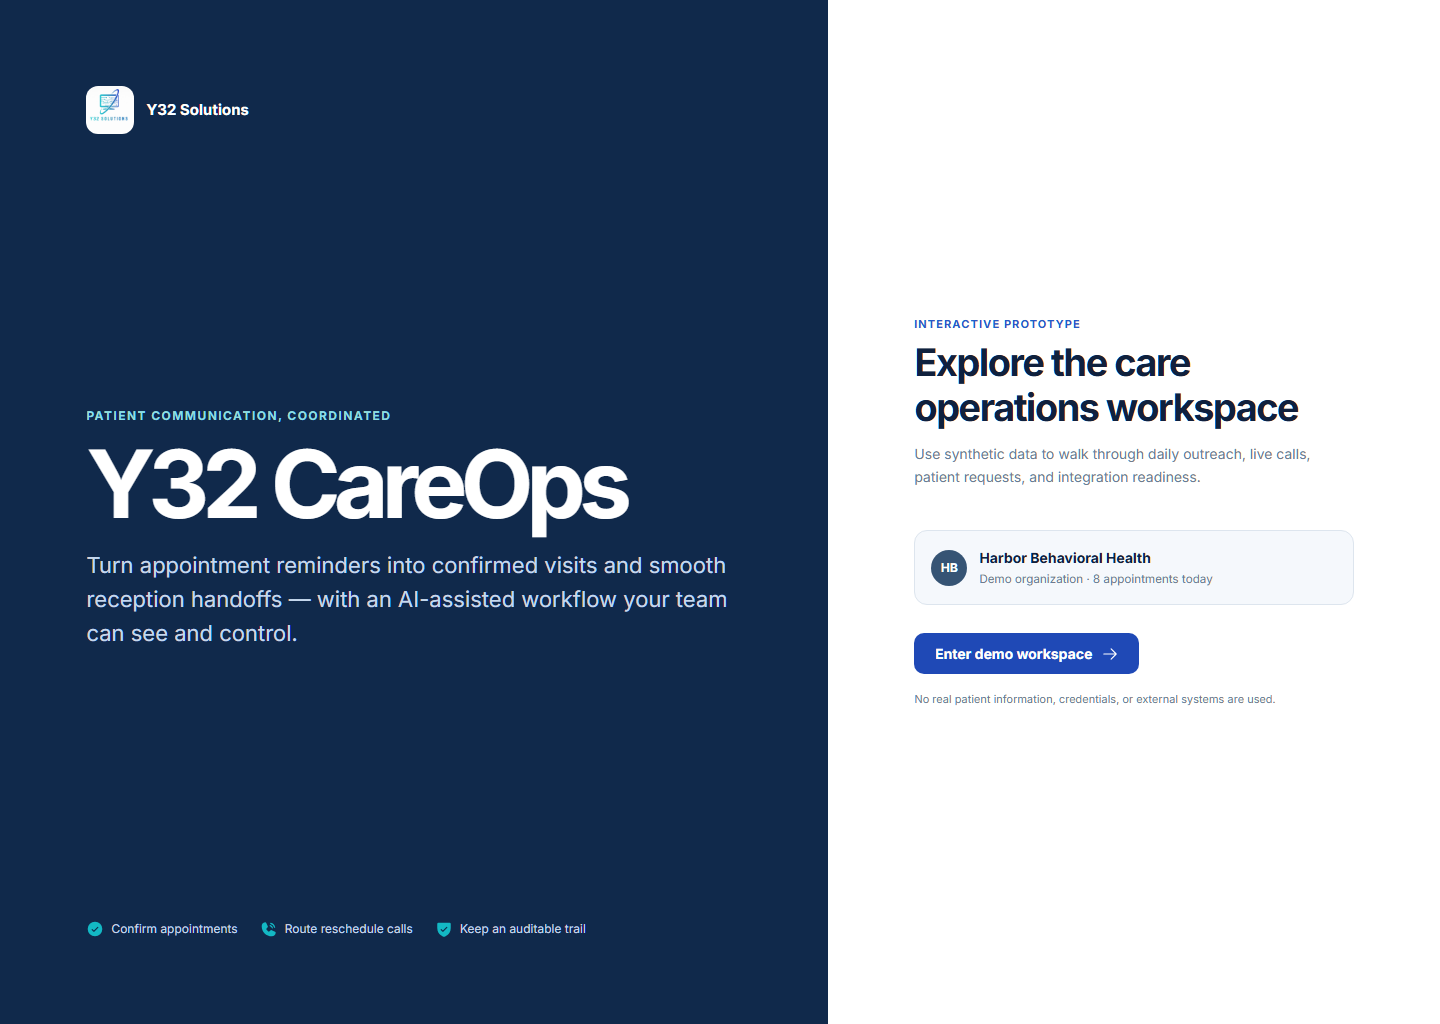
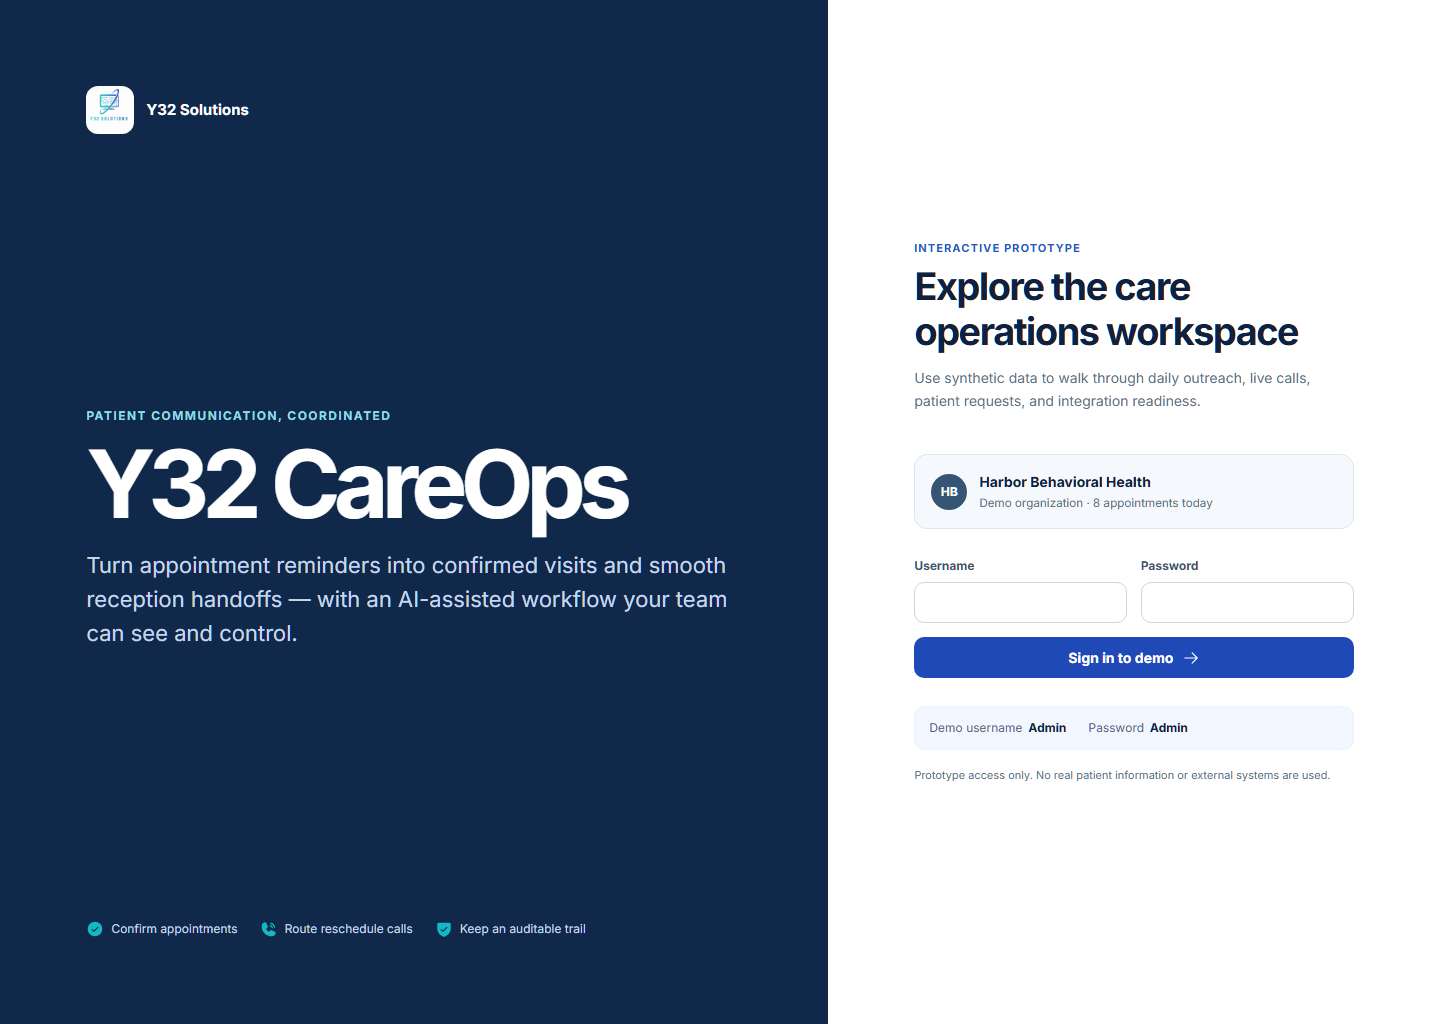
feat: add demo login credentials

Changed region(s): [[0.625, 0.2188, 0.9062, 0.5], [0.625, 0.5312, 0.9375, 0.7188], [0.625, 0.75, 0.9062, 0.7812]]

diff --git a/src/features/auth/DemoEntryPage.tsx b/src/features/auth/DemoEntryPage.tsx
@@ -1,8 +1,23 @@
 import { ArrowRight, CheckCircle, PhoneCall, ShieldCheck } from '@phosphor-icons/react'
-import { Link } from 'react-router-dom'
+import { useState, type FormEvent } from 'react'
+import { useNavigate } from 'react-router-dom'
 import logo from '../../assets/y32-logo.jpeg'
 
 export function DemoEntryPage() {
+  const navigate = useNavigate()
+  const [username, setUsername] = useState('')
+  const [password, setPassword] = useState('')
+  const [error, setError] = useState('')
+
+  const signIn = (event: FormEvent<HTMLFormElement>) => {
+    event.preventDefault()
+    if (username === 'Admin' && password === 'Admin') {
+      navigate('/overview')
+      return
+    }
+    setError('Incorrect username or password.')
+  }
+
   return <main className="demo-entry">
     <section className="demo-entry-story">
       <div className="entry-brand"><img src={logo} alt="Y32 Solutions" /><span>Y32 Solutions</span></div>
@@ -12,8 +27,16 @@ export function DemoEntryPage() {
     <section className="demo-entry-panel" aria-label="Demo access">
       <div><div className="eyebrow">Interactive prototype</div><h2>Explore the care operations workspace</h2><p>Use synthetic data to walk through daily outreach, live calls, patient requests, and integration readiness.</p></div>
       <div className="entry-tenant"><span className="avatar">HB</span><span><strong>Harbor Behavioral Health</strong><small>Demo organization · 8 appointments today</small></span></div>
-      <Link className="button button-primary entry-button" to="/overview">Enter demo workspace <ArrowRight size={18} /></Link>
-      <p className="entry-disclaimer">No real patient information, credentials, or external systems are used.</p>
+      <form className="entry-login-form" onSubmit={signIn}>
+        <div className="entry-login-fields">
+          <div className="field"><label htmlFor="demo-username">Username</label><input id="demo-username" className="input" autoComplete="username" value={username} onChange={(event) => { setUsername(event.target.value); setError('') }} /></div>
+          <div className="field"><label htmlFor="demo-password">Password</label><input id="demo-password" className="input" type="password" autoComplete="current-password" value={password} onChange={(event) => { setPassword(event.target.value); setError('') }} /></div>
+        </div>
+        {error && <p className="entry-login-error" role="alert">{error}</p>}
+        <button className="button button-primary entry-button" type="submit">Sign in to demo <ArrowRight size={18} /></button>
+      </form>
+      <div className="entry-credentials" aria-label="Demo credentials"><span>Demo username <strong>Admin</strong></span><span>Password <strong>Admin</strong></span></div>
+      <p className="entry-disclaimer">Prototype access only. No real patient information or external systems are used.</p>
     </section>
   </main>
 }

diff --git a/src/styles/base.css b/src/styles/base.css
@@ -106,7 +106,13 @@ h2 { font-size: 18px; line-height: 1.4; }
 .entry-tenant { display: flex; align-items: center; gap: 12px; padding: 16px; border: 1px solid var(--slate-200); border-radius: 13px; background: var(--canvas); }
 .entry-tenant > span:last-child { display: grid; gap: 3px; }
 .entry-tenant small { color: var(--slate-500); }
+.entry-login-form { display: grid; gap: 14px; }
+.entry-login-fields { display: grid; grid-template-columns: repeat(2, minmax(0, 1fr)); gap: 14px; }
+.entry-login-error { margin: 0 !important; color: var(--danger-700) !important; font-size: 12px; font-weight: 650; }
 .entry-button { align-self: flex-start; min-width: 225px; text-decoration: none; }
+.entry-credentials { display: flex; align-items: center; gap: 10px 22px; flex-wrap: wrap; padding: 12px 14px; border: 1px solid var(--info-100); border-radius: 11px; color: var(--slate-600); background: #f2f7ff; font-size: 12px; }
+.entry-credentials span { display: flex; gap: 6px; }
+.entry-credentials strong { color: var(--navy-950); }
 .entry-disclaimer { margin: -12px 0 0 !important; font-size: 11px; }
 
 @media (max-width: 1199px) {
@@ -125,6 +131,7 @@ h2 { font-size: 18px; line-height: 1.4; }
   .entry-copy h1 { font-size: 52px; }
   .entry-proof { gap: 12px; }
   .demo-entry-panel { padding: 42px 24px; }
+  .entry-login-fields { grid-template-columns: 1fr; }
   .app-shell { display: block; }
   .sidebar { position: fixed; left: 0; transform: translateX(-105%); width: min(304px, 88vw); padding-inline: 16px; transition: transform var(--ease); }
   .sidebar.open { transform: translateX(0); box-shadow: var(--shadow-float); }

diff --git a/src/features/auth/DemoEntryPage.test.tsx b/src/features/auth/DemoEntryPage.test.tsx
@@ -1,0 +1,41 @@
+import { render, screen } from '@testing-library/react'
+import userEvent from '@testing-library/user-event'
+import { MemoryRouter, Route, Routes } from 'react-router-dom'
+import { describe, expect, it } from 'vitest'
+import { DemoEntryPage } from './DemoEntryPage'
+
+function renderEntry() {
+  return render(
+    <MemoryRouter initialEntries={['/']}>
+      <Routes>
+        <Route path="/" element={<DemoEntryPage />} />
+        <Route path="/overview" element={<h1>Workspace overview</h1>} />
+      </Routes>
+    </MemoryRouter>,
+  )
+}
+
+describe('DemoEntryPage', () => {
+  it('opens the workspace with the default demo credentials', async () => {
+    const user = userEvent.setup()
+    renderEntry()
+
+    await user.type(screen.getByRole('textbox', { name: 'Username' }), 'Admin')
+    await user.type(screen.getByLabelText('Password'), 'Admin')
+    await user.click(screen.getByRole('button', { name: 'Sign in to demo' }))
+
+    expect(screen.getByRole('heading', { name: 'Workspace overview' })).toBeVisible()
+  })
+
+  it('keeps the login visible and explains invalid credentials', async () => {
+    const user = userEvent.setup()
+    renderEntry()
+
+    await user.type(screen.getByRole('textbox', { name: 'Username' }), 'admin')
+    await user.type(screen.getByLabelText('Password'), 'wrong')
+    await user.click(screen.getByRole('button', { name: 'Sign in to demo' }))
+
+    expect(screen.getByRole('alert')).toHaveTextContent('Incorrect username or password.')
+    expect(screen.getByRole('button', { name: 'Sign in to demo' })).toBeVisible()
+  })
+})

diff --git a/e2e/navigation.spec.ts b/e2e/navigation.spec.ts
@@ -14,10 +14,12 @@ const routes = [
   ['/settings', 'Organization settings'],
 ] as const
 
-test('opens the branded demo entry before the application shell', async ({ page }) => {
+test('opens the branded demo entry and accepts the default credentials', async ({ page }) => {
   await page.goto('/')
   await expect(page.getByRole('heading', { level: 1, name: 'Y32 CareOps' })).toBeVisible()
-  await page.getByRole('link', { name: 'Enter demo workspace' }).click()
+  await page.getByRole('textbox', { name: 'Username' }).fill('Admin')
+  await page.getByLabel('Password').fill('Admin')
+  await page.getByRole('button', { name: 'Sign in to demo' }).click()
   await expect(page).toHaveURL(/\/overview$/)
 })
 

diff --git a/README.md b/README.md
@@ -13,6 +13,11 @@ npm run dev
 
 Open `http://localhost:5173`.
 
+Demo access:
+
+- Username: `Admin`
+- Password: `Admin`
+
 ## Local Docker preview
 
 ```bash
